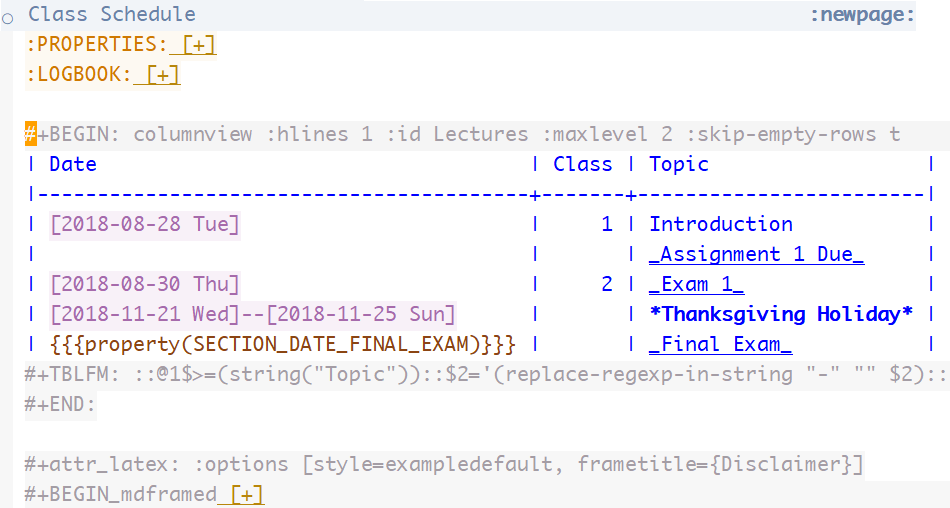
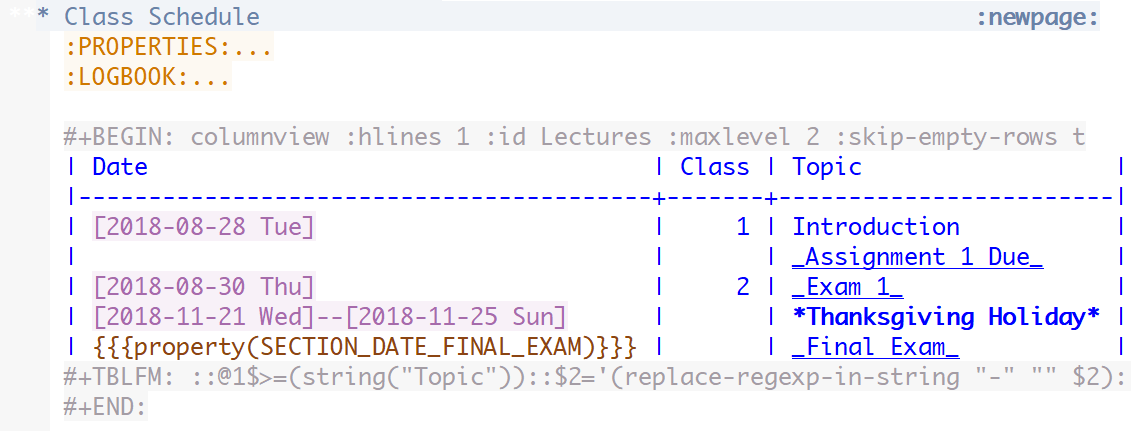
Update

diff --git a/searchindex.js b/searchindex.js
@@ -1,1 +1,1 @@
-Search.setIndex({docnames:["Lectures/01 Introduction","Lectures/02 Org Mode Basics","Lectures/03 Topic and Course Org Files","Lectures/04 Creating Content for Slides and Handouts","Lectures/05 Exporting Slides and Handouts","Lectures/06 Semester Org Files 1 4 Introduction","Lectures/07 Semester Org Files 2 4 Sections and Syllabus","Lectures/08 Semester Org Files 3 4 Lectures","Lectures/09 Semester Org Files 4 4 Exams and Assignments","index"],envversion:53,filenames:["Lectures\\01 Introduction.rst","Lectures\\02 Org Mode Basics.rst","Lectures\\03 Topic and Course Org Files.rst","Lectures\\04 Creating Content for Slides and Handouts.rst","Lectures\\05 Exporting Slides and Handouts.rst","Lectures\\06 Semester Org Files 1 4 Introduction.rst","Lectures\\07 Semester Org Files 2 4 Sections and Syllabus.rst","Lectures\\08 Semester Org Files 3 4 Lectures.rst","Lectures\\09 Semester Org Files 4 4 Exams and Assignments.rst","index.rst"],objects:{},objnames:{},objtypes:{},terms:{"00pm":6,"01_syllabu":6,"10pt":6,"1in":6,"20pt":3,"30a":6,"30pm":5,"43e7":7,"6cm":0,"79d5e887":7,"8e8a":7,"\u315a\u3157":[],"break":3,"case":[0,1,2,3],"class":9,"default":[3,4,6,7,8],"export":[1,3,6,7,8,9],"final":6,"function":[0,1,3,4,6,7,8],"import":[2,5,6,8],"long":[4,7],"new":8,"return":4,"try":0,"while":[0,1,3,4,6],Adding:[],For:[0,1,3,4,5,6,7,8],Its:[2,8],One:[0,1,3,6],Such:[1,3],That:[0,5,6],The:[0,1,2,3,4,5,6,8,9],Then:[0,1,7],There:6,These:[0,3,4,6,7],Using:[4,9],With:[3,4,7],_assign:7,_exam:7,_final:7,abil:7,abl:0,about:[0,2,4,5,6,8],abov:[0,2,7],absolut:5,academ:0,access:0,accommod:5,accomod:4,accompani:3,accordingli:7,achiev:[1,3],across:[0,1,2,5,6,7,8],act:[5,6],action:[0,4,7],activ:[3,8],actual:[0,2],adadem:0,adapt:4,add:[0,3,4,8],added:[0,4],adding:[0,4],addit:[0,4,6,7,8],adjust:0,advantag:1,after:[0,3,4],again:[],agenda:[0,7],ajax:5,alist:4,all:[0,1,3,5,6,7],allow:[0,1,3,4,6,8],allowfullscreen:3,alreadi:3,also:[0,3,5,6,8],alt:[0,8],ani:[0,1,3,4,7,8],annot:0,annouc:7,announc:[0,5,6,7],anoth:[0,2,6,8,9],appear:[0,3],append:4,appli:[0,3],approach:0,appropri:0,area:[1,3],argument:4,around:[0,6],arrow:0,articl:[0,4,6],ask:0,asset:[0,5],assign:[0,1,2,5,6,9],assignment_1:0,associ:1,assum:7,attr_beam:3,attr_format:3,attr_html:[0,3],attr_latex:[0,3],attr_rev:[0,3],attribut:0,author:[2,5],autom:0,automat:[0,3,4,6,7,8],auxiliari:0,avail:[0,3],avoid:[3,6],b83fa83ee56:7,babel:8,back:4,backend:[0,3,4],base:[0,3,4],basi:7,basic:[0,4,7,9],beamer:[0,3,4,7],becaus:[],becom:[],been:0,befor:[0,3,7],begin:[0,3,6],begin_cent:6,begin_export:3,begin_mdfram:3,begin_not:3,begin_src:7,beginn:0,being:[0,3,4,7],belon:8,belong:[0,7],below:[0,2,3,4,5,6,7,8],benefit:[0,2],between:[3,4],biggest:0,bind:[],blank:6,bldg:6,block:[3,6],bodi:[6,7],boilerpl:[],bold:3,booklet:4,both:[0,4,9],bottom:6,broken:[],browser:3,build:1,built:[0,4],button:[],calendar:0,call:0,can:[0,1,2,3,4,5,6,7,8],cannot:3,carrot:8,categor:5,categori:[2,5],cdn:5,cdnj:5,central:[],certain:4,chang:[0,1,4,5,6,8],charact:7,checkmark:8,choos:[0,3,4],classlist:5,classroom:[0,5,6],clearpag:4,click:[0,4,7],clickabl:[0,7,9],cloudflar:5,code:[0,4,8,9],collaps:[0,5],color:6,column:[6,7],columnview:[0,6],com:[3,5],combin:3,come:4,command:[0,4,7],common:[0,3,5,6,8],compil:0,complet:[0,3],compon:[0,5],concat:4,cond:3,conduct:8,confirm:[0,8],consider:2,consist:[0,1,2],construct:[],contain:[0,2,4,5,6,7,8],containt:2,content:[5,6,9],control:3,contruct:5,conveni:[4,8],convert:[3,4],copi:1,correct:[4,8],correctli:[],correspond:[0,2,3,6,7,8],coupl:5,courier:6,cours:[1,3,4,5,7,8,9],course_info:0,course_link:6,course_num:[0,5,6,8],coursepack:[1,2,3,4,5,7,8],coursepacket:2,cover:[0,2,5],creat:[1,2,4,5,6,7,8,9],creation:0,ctrl:0,current:[0,1,4,7],curser:0,cursor:[0,1,4,6],custom:[0,3,4,6,7,8],custom_id:[1,2,6,7,8],cut:4,cutoff:6,dai:6,data:[1,2],date:[0,1,6,8],date_class_01:7,date_class_02:7,date_class_xx:7,date_exam_1:8,date_final_exam_01:6,deadlin:[],deck:0,dedic:5,defin:[0,1,4,6,7],definecolor:6,definit:[1,5],defun:[3,4],denot:1,depend:[0,4],depth:4,deriv:[3,4],describ:[0,3,4,6,7],descript:[0,2,5,6],design:[0,7,8],desir:0,detail:[0,8],determin:1,develop:0,dfrac:1,differ:[0,1,2,6,8],digest:0,direct:3,directli:[0,3],directori:[4,7,9],discuss:7,disk:0,dispatch:4,displai:3,div:3,divid:0,document:[0,1,4,5],documentclass:4,doe:[0,4],done:[],down:[0,8],draw:7,drawer:[0,6],due:[0,1,7],due_:7,due_assignment_1:[1,7],due_assignment_2:7,duplic:8,dure:6,dynam:6,each:[0,1,2,4,5,6,7,8],earlier:[0,7],easi:0,easier:0,easili:[1,3,7],edit:7,effect:0,effici:0,eggplant:8,either:[0,3,4],element:[4,6,8],elisp:[0,8],elmnt:4,emac:[0,3,4,7,8],email:[2,5,6],emb:3,embed:0,empti:8,enabl:[0,3,4],end:[0,1,2,3,4,5,6,7,8],end_cent:6,end_export:3,end_mdfram:3,end_not:3,engag:0,enjoi:0,ensur:[1,4],enter:[0,7],entri:4,escap:4,especi:1,essenti:7,estim:2,etc:[1,5,6],eun:[0,1,2,3,4,5,6,7,8],eval:[3,4],evalu:8,even:0,event:[0,7],everi:4,exam:[0,1,2,4,5,6,7,9],exam_:7,exampl:[1,2,3,4,5,6,7,8],exclude_tag:5,execut:7,exercis:2,exist:7,expand:[0,2],experi:0,explain:0,explan:[],exploit:1,export_:4,export_author:8,export_d:8,export_file_nam:[0,6,7],export_file_name_manu:7,export_latex_head:[4,6,7],export_titl:[4,6,7,8],export_to:[4,6,7],extend:[],extens:[0,4],extra:3,extract:6,fact:2,fall:[2,5,6,7,8],familiar:[0,3],featur:[0,1,4,9],few:0,file:[3,4,9],fill:0,filler:0,filter:[3,4],find:0,finish:[],first:[0,3,4,7,8],fit:[0,6],fix:[],flexibl:[0,1,4],focu:[0,3],focus:4,folder:[0,2],follow:[0,1,3,4,5,7,8],fontenc:6,forc:0,fore:1,form:[1,2,4,6,7],format:[0,3,4,6,7,8],former:4,found:[3,4],frag:[0,3],fragment:0,frame:3,framebreak:3,framemethod:6,frametitl:3,freeli:0,frequent:[0,1,3],from:[0,2,5,6,7,9],front:4,fset:4,full:4,furthermor:8,futur:[0,1],gener:[0,2,3,4,5,6,7,8],geometri:6,get:[0,3,4,6,7],given:[0,2,5,6],global:5,gnu:0,grab:[],grade:[0,2,5,6],grammar:[3,6],granular:3,group:0,guid:9,guidelin:[0,1,2],hack:3,handout:[5,9],handoutonli:[0,4,7],happen:3,has:[0,2,4,5,6,7,8],have:[0,1,2,3,4,6,7,8],head:[2,6,9],header:[3,4,6,7,8],headlin:[0,3,4],heavili:6,height:3,help:0,helvet:6,henc:[0,2,3,4,7,8],here:[2,3,4,8],hidden:[0,4],hide:[0,3,8],hidestar:[2,5],highest:2,highlight:[4,5,7],hit:0,hold:0,holidai:[0,7],hook:4,hour:[0,6],how:[1,3,4,5],howev:[0,4],href:[],html:[0,4,7,9],http:[3,5],iffals:[0,4],ifram:3,ignor:[0,3,6,7],ignoreheadlin:3,imag:[0,3,4],img:3,importantli:4,improv:0,inact:8,includ:[2,3,4,6,7,8,9],inclus:0,inconsist:0,indent:5,index:9,individu:9,info:[3,4],inform:[1,2,3,4,5,7,8],inherit:[6,7,8],init:[3,4],initi:4,inlin:[3,8],insert:[0,7],insid:0,inspect:7,instal:4,instanc:2,instead:[3,5,6,7],institut:[0,5,6],instruct:[0,3,4,5,8],instructor:[1,2,3,4,5,6,7,8],instrutor:7,interact:4,interfac:4,interpret:2,introduc:[0,3,4],introduct:9,invalid:7,irrelev:3,item:[0,3,4,5,6,8],its:[0,1,3,4,6,7],itself:[],jae:[0,1,2,3,4,5,6,7,8],joon:[0,1,2,3,4,5,6,7,8],jose:0,just:[],kbd:4,keep:[],kei:[0,8],keybind:9,keyboard:4,keyword:5,know:0,knowledg:0,koma:[4,6],lambda:4,lang:4,languag:[0,3,4],larg:6,last:[4,7],later:4,latex:[0,6,7,8,9],latter:[4,7],learn:[0,2,6,7],lectur:[1,2,3,4,5,8,9],left:6,let:[0,3,4],letter:4,letterpap:6,level:[0,1,2,9],leverag:0,lib:5,like:[0,1,3],limit:0,line:[0,1,2,4],linear:5,link:[0,2,7,8,9],lisp:[0,3,4,7],list:[0,4,6,7,8],load:[3,4],local:[5,9],localsetup:0,locat:[0,1,2,5,6],logo:6,look:[0,3],macro:[0,3,4,7,8,9],macro_nam:1,macros_section_info:[0,6],made:[0,7],mai:[0,1,3,4,5,6,7,8],mail:6,main:[],mainli:5,maintain:4,major:0,make:[0,1,2,3],manag:0,mani:[0,8],manual:[0,1,3,4,5,7,8],map:4,mark:[0,8],markdown:[0,5],market:[1,2],markeup:3,markup:[0,3,4],master:[0,5],match:[],materi:[0,1,2,5,6,7],math:0,mathjax:0,mathpazo:6,matter:4,mdframe:[3,6],mean:[0,1,6],meet:[6,7],member:4,menu:0,meta:2,metadata:[2,5],method:0,microtyp:6,mid:8,might:[],minim:[0,7,8],mint:[4,7],minut:8,mix:[],mode:[0,3,5,6,7,8,9],modifi:[],modul:9,modular:[1,8],more:[0,1,3,5,7,8],most:[0,2,6,7],move:0,movement:[],much:[7,8],multi:3,multicol:[3,4],multipl:[0,1,2,4,5,6],name:[0,1,2,4,5,6,7],namkoong:[0,1,2,3,4,5,6,7,8],narrow:4,navig:0,necessari:[3,5],need:[0,1,3,7],newpag:[4,6,8],next:4,nil:[0,5,6,8],noexport:[5,6,7],non:[0,7],none:7,nonstopmod:4,note:[0,2,4,5,6,7,8],notic:[],now:[2,6],num:[4,6],number:[0,1,4,5,6,7,8],object:[0,2,6,7],obtain:[3,8],obvious:[],occupi:0,occur:0,occurr:0,offer:[0,4,5],offic:[0,6],office_hour:[5,6],often:0,okra:8,onc:6,one:[0,1,3,4,5,7,8],onehalfspac:6,ones:5,onli:[0,1,2,3,6,7,8],open:[0,4,7,8],oppos:[0,4],option:[0,1,2,3,4,6,7,8,9],order:[0,1,5,7,8],org:3,org_teach:[7,8],organ:[0,5],orgmod:3,origin:[4,8],other:[0,4,5,6,7],otherwis:8,our:[0,4],output:[0,3,4,7],output_view:[6,7],outputdir:4,outsid:0,over:[3,5],overal:7,overlai:[3,7],overridden:7,overview:[2,5,7,9],own:0,packag:[4,7],page:[6,9],pair:1,paragraph:4,parent:4,pars:4,part:[0,3,4],partial:2,particular:[1,7],pass:[0,6,8],past:[0,1],path:[5,7],pdf:[0,4,6,7],pdflatex:4,pepper:8,per:0,percentag:6,perform:7,perman:[0,2],pertain:8,phone:6,place:[0,1,4,6,7],placehold:6,plan:2,plist:4,png:3,point:[3,4,7,8],polici:[0,2,6],popular:0,portabl:0,portion:0,posit:4,possibl:[7,8],post:5,potenti:[0,2],power:4,pre:[0,4,7],preambl:[3,4,6,7],preced:1,prefix:4,prepend:0,prerequisit:6,present:[0,1,3,5,7],press:[0,1,8],prevent:7,preview:0,previou:[0,7],print:3,prior:7,process:[0,3,4],professor:6,progn:4,prop:4,propag:[0,7],proper:4,properli:[0,3,8],properti:[0,2,3,4],property_nam:[1,6],provid:[0,1,3,4,7],pull:[0,1,5,6,8],put:[0,3,4],python:4,qualit:0,queri:0,question:[0,2,8],quickli:7,quickstart:9,quickstart_lectur:[],quot:3,raw:[0,4,9],reader:3,readi:[],readili:3,readm:0,recap:[0,7],receiv:6,recent:0,recommend:0,reduc:0,redun:7,redunc:0,redund:[0,6,8],refer:[0,1,2,4],reflect:[0,7],regexp:3,regress:[1,2],rel:[0,5],relat:[0,1,2,3,5,6],relev:2,reli:6,remain:[0,2],remind:[5,6],remov:4,render:[0,4],repeat:[0,1,4],replac:[0,1,3],represent:4,requir:[3,4,8],res:1,research:[0,1,2],reset:0,resid:[],respect:[2,3,4],restructuredtext:[0,3],result:7,reus:[],reusabl:7,reveal:[0,5,7,9],reveal_histori:5,reveal_html:[0,4],reveal_plugin:5,reveal_root:5,reveal_them:5,reveal_tran:5,review:[0,1,2,7],revisit:1,rgb:6,right:[0,6],riski:0,root:0,rst:[3,4],run:[0,7,8],safe:[0,3],sai:1,same:[0,1,2,3,4,5,6,7,8],save:0,scale:[0,6],schedul:[5,7],scheme:[0,2],school:[5,6],school_color:6,schoolcolor:6,scrartcl:4,screenshot:0,script:[0,4,7],search:[0,9],second:[0,3],section:[0,1,2,3,4,5,9],section_d:6,section_date_final_exam:6,section_loc:6,see:[0,1,2,3,4,5,6,7,8],select:[0,9],semest:[1,2,3,9],semestor:[],separ:[3,8],sequenti:3,seri:0,set:[6,7],setf:4,setq:4,setspac:6,setup:[0,4],setup_macro:[0,5],setupfil:5,sever:[0,5],share:[0,1,6,7,8],shell:4,shift:0,shortcut:0,shoud:4,should:[0,2,3,5,7],show:[0,2,3,4,5,7,8],shown:[0,1,2,3,4,6,7,8],similar:0,similarli:[3,4],simpl:[0,5],simpli:[0,3,4,6],sinc:[0,3,6,8],site:6,size:0,skip:8,skipcount:[0,7],slide:[2,7,9],slideonli:[0,4,7],small:3,smaller:3,snippet:[3,4],some:[3,6],sometim:[],space:4,span:[0,3,4],special:3,specif:[0,1,2,3,5,6,7,8],specifi:[1,4,5,6,7,8],split:0,spring:0,squar:[1,2],src:3,ss_:1,stabil:[],stamp:8,star:1,start:[0,2,3,5,7],startup:[2,5],statement:[1,4,7,8],statist:[0,1,2],step:0,storag:0,store:[0,5],straightforward:0,strateg:0,string:[0,3,4],structur:[2,4,7,8,9],student:[2,6,8],style:3,sub:[0,2],subdirectori:0,subfold:0,subhead:[1,4,7],subparagraph:4,subsect:4,subset:8,subsubsect:4,subtop:2,subtre:[0,1,2,3,5,6,9],suffici:[],summari:[],sun:6,supplementari:[0,4],support:[3,4],suppos:1,surround:[0,3],syllabi:4,syllabu:[1,2,5,7,9],symbol:[4,8],syntax:[0,4,7],system:0,sza2yodtgk4:3,tab:0,tabl:[0,4,6,7],tag:[0,5,6,7,9],take:[1,4],taken:0,task:[0,3,6,9],taught:0,tblfm:6,teach:[0,2,5,6,7],tedious:[],templat:[1,5],tend:[],term:[1,8],tex:0,text:[0,1,3,4,6],thanksgiv:7,thei:[0,1,4,5,6,8],them:[0,1,3,7,8],thi:[0,1,2,3,4,5,6,7,8],thing:[],think:1,third:[0,3,6],those:[3,5],three:[0,1,5,7],through:[0,7],throughout:1,thu:[0,1,3,5,7],thur:6,time:[0,4,5,6,8],timestamp:[5,8],tip:4,titl:[0,1,2,3,4,5,6],toc:[4,6],todo:[5,7],togeth:3,tool:0,top:[0,2,9],topic:[0,6,7,8,9],tot:1,track:[],tree:[0,2,3,9],tue:[0,2,4,5,6,7,8],tutori:3,twice:0,two:[0,3,7,8],type:[0,8],typic:[0,6,8],under:[0,2,7,8],understand:3,uniqu:0,unit:0,univers:0,unless:[0,8],unnecessari:[3,7],updat:[1,6],upon:1,url:[],usag:[1,4],use:[0,1,3,4,5,6,7,8],used:[0,1,3,4,5,6,7,8],useful:[1,4,7],usepackag:[4,6],user:[0,1,3,4,5,7],uses:[0,8],using:[0,1,2,3,4,6,8],util:0,valu:[0,1,4,6,7,8],vari:0,variabl:[5,9],varieti:4,variou:5,veget:8,verb:4,veri:[1,7],version:8,via:[0,1,3,6,8],video:0,view:[0,3,7],view_output:4,viewer:[],visit:[1,5],visual:0,vspace:6,wai:0,want:[0,1,3,4],warn:0,web:[],well:[0,3,5],were:1,what:[0,3],when:[0,1,2,4,6,7],where:[0,1,2,3,4,5],whether:4,which:[0,1,3,4,5,6,7,8],who:[0,2],whole:4,wide:6,widen:4,width:[0,3],window:3,wish:6,within:1,without:[1,3,8],won:4,word:0,worg:3,work:[0,4,8],worri:[],would:[0,1,2],wrapper:6,write:[],written:[0,3,4,7],wuold:8,www:3,xhtml:3,year:0,yet:3,you:[0,1,3,4,7],your:[2,3,4,5],zoom:5},titles:["Class 1: Introduction","Class 2: Org Mode Basics","Class 3: Topic and Course Org Files","Class 4: Creating Content for Slides and Handouts","Class 5: Exporting Slides and Handouts","Class 6: Semester Org Files (1/4): Introduction","Class 7: Semester Org Files (2/4): Sections and Syllabus","Class 8: Semester Org Files (3/4): Lectures","Class 9: Semester Org Files (4/4): Exams and Assignments","Welcome to Org-Coursepack\u2019s documentation!"],titleterms:{"break":4,"class":[0,1,2,3,4,5,6,7,8],"export":[0,4,5],"new":0,"short":8,Adding:0,The:7,Using:3,advantag:0,anoth:1,answer:8,assign:[7,8],attribut:3,basic:1,befor:4,bind:4,block:7,both:3,box:3,buffer:4,button:4,chang:3,choic:8,clickabl:4,code:[3,7],column:3,columnview:7,common:7,conclus:0,construct:0,content:[0,1,2,3,4,7,8],copi:0,cours:[0,2,6],coursepack:[0,9],creat:[0,3],date:7,directori:0,document:9,drawer:5,dummi:3,dynam:7,edit:0,embed:3,exam:8,exampl:0,featur:3,file:[0,1,2,5,6,7,8],font:3,fragment:3,from:1,guid:0,handout:[0,3,4,7],head:[1,3,4,7],hide:4,how:0,html:3,includ:[0,1],indic:9,individu:7,inform:[0,6],input:0,insert:[3,4],instal:0,instructor:0,intro:6,introduct:[0,3,5,7],item:7,kei:4,keybind:4,latex:[3,4],lectur:[0,7],level:[4,5,6,7,8],link:4,list:3,local:[0,8],localsetup:5,macro:[1,5,6],make:[],metadata:0,mode:[1,4],modular:0,multipl:[3,8],note:3,onli:4,option:5,org:[0,1,2,4,5,6,7,8,9],organ:[2,3],overview:0,page:[4,8],paragraph:3,path:0,permiss:0,prepar:0,properti:[1,6,7,8],quickstart:0,raw:3,renam:0,requir:0,reusabl:[],reveal:[3,4],schedul:[0,6],scope:4,section:[6,8],select:4,semest:[0,5,6,7,8],semester_info:5,set:[0,4],setup_export:5,size:3,slide:[0,3,4],sourc:7,speaker:3,specif:4,specifi:[0,3],speific:6,split:3,statement:0,structur:0,student:0,subtre:[4,7,8],summari:7,syllabi:0,syllabu:[0,6],tabl:9,tag:[1,3,4],task:[5,7],templat:0,titl:8,top:[5,6,7,8],topic:2,tree:[5,6,7,8],updat:[0,7],variabl:[0,8],video:3,welcom:9,your:0,youtub:3}})
+Search.setIndex({docnames:["Lectures/01 Introduction","Lectures/02 Org Mode Basics","Lectures/03 Topic and Course Org Files","Lectures/04 Creating Content for Slides and Handouts","Lectures/05 Exporting Slides and Handouts","Lectures/06 Semester Org Files 1 4 Introduction","Lectures/07 Semester Org Files 2 4 Sections and Syllabus","Lectures/08 Semester Org Files 3 4 Lectures","Lectures/09 Semester Org Files 4 4 Exams and Assignments","index"],envversion:53,filenames:["Lectures\\01 Introduction.rst","Lectures\\02 Org Mode Basics.rst","Lectures\\03 Topic and Course Org Files.rst","Lectures\\04 Creating Content for Slides and Handouts.rst","Lectures\\05 Exporting Slides and Handouts.rst","Lectures\\06 Semester Org Files 1 4 Introduction.rst","Lectures\\07 Semester Org Files 2 4 Sections and Syllabus.rst","Lectures\\08 Semester Org Files 3 4 Lectures.rst","Lectures\\09 Semester Org Files 4 4 Exams and Assignments.rst","index.rst"],objects:{},objnames:{},objtypes:{},terms:{"00pm":6,"01_syllabu":6,"10pt":6,"1in":6,"20pt":3,"30a":6,"30pm":5,"43e7":7,"6cm":0,"79d5e887":7,"8e8a":7,"\u315a\u3157":[],"break":3,"case":[0,1,2,3],"class":9,"default":[3,4,6,7,8],"export":[1,3,6,7,8,9],"final":6,"function":[0,1,3,4,6,7,8],"import":[2,5,6,8],"long":[4,7],"new":8,"return":4,"try":0,"while":[0,1,3,4,6],Adding:[],For:[0,1,3,4,5,6,7,8],Its:[2,8],One:[0,1,3,6],Such:[1,3],That:[0,5,6],The:[0,1,2,3,4,5,6,8,9],Then:[0,1,7],There:6,These:[0,3,4,6,7],Using:[4,9],With:[3,4,7],_assign:7,_exam:7,_final:7,abil:7,abl:0,about:[0,2,4,5,6,8],abov:[0,2,7],absolut:5,academ:0,access:0,accommod:5,accomod:4,accompani:3,accordingli:7,achiev:[1,3],across:[0,1,2,5,6,7,8],act:[5,6],action:[0,4,7],activ:[3,8],actual:[0,2],adadem:0,adapt:4,add:[0,3,4,8],added:[0,4],adding:[0,4],addit:[0,4,6,7,8],adjust:0,advantag:1,after:[0,3,4],again:[],agenda:[0,7],ajax:5,alist:4,all:[0,1,3,5,6,7],allow:[0,1,3,4,6,8],allowfullscreen:3,alreadi:3,also:[0,3,5,6,8],alt:[0,8],ani:[0,1,3,4,7,8],annot:0,annouc:7,announc:[0,5,6,7],anoth:[0,2,6,8,9],appear:[0,3],append:4,appli:[0,3],approach:0,appropri:0,area:[1,3],argument:4,around:[0,6],arrow:0,articl:[0,4,6],ask:0,asset:[0,5],assign:[0,1,2,5,6,9],assignment_1:0,associ:1,assum:7,attr_beam:3,attr_format:3,attr_html:[0,3],attr_latex:[0,3],attr_rev:[0,3],attribut:0,author:[2,5],autom:0,automat:[0,3,4,6,7,8],auxiliari:0,avail:[0,3],avoid:[3,6],b83fa83ee56:7,babel:8,back:4,backend:[0,3,4],base:[0,3,4],basi:7,basic:[0,4,7,9],beamer:[0,3,4,7],becaus:[],becom:[],been:0,befor:[0,3,7],begin:[0,3,6],begin_cent:6,begin_export:3,begin_mdfram:3,begin_not:3,begin_src:7,beginn:0,being:[0,3,4,7],belon:8,belong:[0,7],below:[0,2,3,4,5,6,7,8],benefit:[0,2],between:[3,4],biggest:0,bind:[],blank:6,bldg:6,block:[3,6],bodi:[6,7],boilerpl:[],bold:3,booklet:4,both:[0,4,9],bottom:6,broken:[],browser:3,build:1,built:[0,4],button:[],calendar:0,call:0,can:[0,1,2,3,4,5,6,7,8],cannot:3,carrot:8,categor:5,categori:[2,5],cdn:5,cdnj:5,central:[],certain:4,chang:[0,1,4,5,6,8],charact:7,checkmark:8,choos:[0,3,4],classlist:5,classroom:[0,5,6],clearpag:4,click:[0,4,7],clickabl:[0,7,9],cloudflar:5,code:[0,4,8,9],collaps:[0,5],color:6,column:[6,7],columnview:[0,6],com:[3,5],combin:3,come:4,command:[0,4,7],common:[0,3,5,6,8],compil:0,complet:[0,3],compon:[0,5],concat:4,cond:3,conduct:8,confirm:[0,8],consider:2,consist:[0,1,2],construct:0,contain:[0,2,4,5,6,7,8],containt:2,content:[5,6,9],control:3,contruct:5,conveni:[4,8],convert:[3,4],copi:1,correct:[4,8],correctli:[],correspond:[0,2,3,6,7,8],coupl:5,courier:6,cours:[1,3,4,5,7,8,9],course_info:0,course_link:6,course_num:[0,5,6,8],coursepack:[1,2,3,4,5,7,8],coursepacket:2,cover:[0,2,5],creat:[1,2,4,5,6,7,8,9],creation:0,ctrl:0,current:[0,1,4,7],curser:0,cursor:[0,1,4,6],custom:[3,4,6,7,8],custom_id:[1,2,6,7,8],cut:4,cutoff:6,dai:6,data:[1,2],date:[0,1,6,8],date_class_01:7,date_class_02:7,date_class_xx:7,date_exam_1:8,date_final_exam_01:6,deadlin:[],deck:0,dedic:5,defin:[0,1,4,6,7],definecolor:6,definit:[1,5],defun:[3,4],denot:1,depend:[0,4],depth:4,deriv:[3,4],describ:[0,3,4,6,7],descript:[0,2,5,6],design:[0,7,8],desir:0,detail:[0,8],determin:1,develop:0,dfrac:1,differ:[0,1,2,6,8],digest:0,direct:3,directli:[0,3],directori:[4,7,9],discuss:7,disk:0,dispatch:4,displai:3,div:3,divid:0,document:[0,1,4,5],documentclass:4,doe:[0,4],done:[],down:[0,8],draw:7,drawer:[0,6],due:[0,1,7],due_:7,due_assignment_1:[1,7],due_assignment_2:7,duplic:8,dure:6,dynam:6,each:[0,1,2,4,5,6,7,8],earlier:[0,7],easi:0,easier:0,easili:[1,3,7],edit:7,effect:0,effici:0,eggplant:8,either:[0,3,4],element:[4,6,8],elisp:[0,8],elmnt:4,emac:[0,3,4,7,8],email:[2,5,6],emb:3,embed:0,empti:8,enabl:[0,3,4],end:[0,1,2,3,4,5,6,7,8],end_cent:6,end_export:3,end_mdfram:3,end_not:3,engag:0,enjoi:0,ensur:[1,4],enter:[0,7],entri:4,escap:4,especi:1,essenti:7,estim:2,etc:[1,5,6],eun:[0,1,2,3,4,5,6,7,8],eval:[3,4],evalu:8,even:0,event:[0,7],everi:4,exam:[0,1,2,4,5,6,7,9],exam_:7,exampl:[1,2,3,4,5,6,7,8],exclude_tag:5,execut:7,exercis:2,exist:7,expand:[0,2],experi:0,explain:0,explan:[],exploit:1,export_:4,export_author:8,export_d:8,export_file_nam:[0,6,7],export_file_name_manu:7,export_latex_head:[4,6,7],export_titl:[4,6,7,8],export_to:[4,6,7],extend:[],extens:[0,4],extra:3,extract:6,fact:2,fall:[2,5,6,7,8],familiar:[0,3],featur:[0,1,4,9],few:0,file:[3,4,9],fill:0,filler:0,filter:[3,4],find:0,finish:[],first:[0,3,4,7,8],fit:[0,6],fix:[],flexibl:[0,1,4],focu:[0,3],focus:4,folder:[0,2],follow:[0,1,3,4,5,7,8],fontenc:6,forc:0,fore:1,form:[1,2,4,6,7],format:[0,3,4,6,7,8],former:4,found:[3,4],frag:[0,3],fragment:0,frame:3,framebreak:3,framemethod:6,frametitl:3,freeli:0,frequent:[0,1,3],from:[0,2,5,6,7,9],front:4,fset:4,full:4,furthermor:8,futur:[0,1],gener:[0,2,3,4,5,6,7,8],geometri:6,get:[0,3,4,6,7],given:[0,2,5,6],global:5,gnu:0,grab:[],grade:[0,2,5,6],grammar:[3,6],granular:3,group:0,guid:9,guidelin:[0,1,2],hack:3,handout:[5,9],handoutonli:[0,4,7],happen:3,has:[0,2,4,5,6,7,8],have:[0,1,2,3,4,6,7,8],head:[2,6,9],header:[3,4,6,7,8],headlin:[0,3,4],heavili:6,height:3,help:0,helvet:6,henc:[0,2,3,4,7,8],here:[0,2,3,4,8],hidden:[0,4],hide:[0,3,8],hidestar:[2,5],highest:2,highlight:[4,5,7],hit:0,hold:0,holidai:[0,7],hook:4,hour:[0,6],how:[0,1,3,4,5],howev:[0,4],href:[],html:[0,4,7,9],http:[3,5],iffals:[0,4],ifram:3,ignor:[0,3,6,7],ignoreheadlin:3,imag:[0,3,4],img:3,importantli:4,improv:0,inact:8,includ:[2,3,4,6,7,8,9],inclus:0,inconsist:0,indent:5,index:9,individu:9,info:[3,4],inform:[1,2,3,4,5,7,8],inherit:[6,7,8],init:[3,4],initi:4,inlin:[3,8],insert:[0,7],insid:0,inspect:7,instal:4,instanc:2,instead:[3,5,6,7],institut:[0,5,6],instruct:[0,3,4,5,8],instructor:[1,2,3,4,5,6,7,8],instrutor:7,interact:4,interfac:4,interpret:2,introduc:[0,3,4],introduct:9,invalid:7,irrelev:3,item:[0,3,4,5,6,8],its:[0,1,3,4,6,7],itself:[],jae:[0,1,2,3,4,5,6,7,8],joon:[0,1,2,3,4,5,6,7,8],jose:0,just:[],kbd:4,keep:[],kei:[0,8],keybind:9,keyboard:4,keyword:5,know:0,knowledg:0,koma:[4,6],lambda:4,lang:4,languag:[0,3,4],larg:6,last:[4,7],later:4,latex:[0,6,7,8,9],latter:[4,7],learn:[0,2,6,7],lectur:[1,2,3,4,5,8,9],left:6,let:[0,3,4],letter:4,letterpap:6,level:[0,1,2,9],leverag:0,lib:5,like:[0,1,3],limit:0,line:[0,1,2,4],linear:5,link:[0,2,7,8,9],lisp:[0,3,4,7],list:[0,4,6,7,8],load:[3,4],local:[5,9],localsetup:0,locat:[0,1,2,5,6],logo:6,look:[0,3],macro:[0,3,4,7,8,9],macro_nam:1,macros_section_info:[0,6],made:[0,7],mai:[0,1,3,4,5,6,7,8],mail:6,main:[],mainli:5,maintain:4,major:0,make:[0,1,2,3],manag:0,mani:[0,8],manual:[0,1,3,4,5,7,8],map:4,mark:[0,8],markdown:[0,5],market:[1,2],markeup:3,markup:[0,3,4],master:[0,5],match:[],materi:[0,1,2,5,6,7],math:0,mathjax:0,mathpazo:6,matter:4,mdframe:[3,6],mean:[0,1,6],meet:[6,7],member:4,menu:0,meta:2,metadata:[2,5],method:0,microtyp:6,mid:8,might:[],minim:[0,7,8],mint:[4,7],minut:8,mix:[],mode:[0,3,5,6,7,8,9],modifi:[],modul:9,modular:[1,8],more:[0,1,3,5,7,8],most:[0,2,6,7],move:0,movement:[],much:[7,8],multi:3,multicol:[3,4],multipl:[0,1,2,4,5,6],name:[0,1,2,4,5,6,7],namkoong:[0,1,2,3,4,5,6,7,8],narrow:4,navig:0,necessari:[3,5],need:[0,1,3,7],newpag:[4,6,8],next:4,nil:[0,5,6,8],noexport:[5,6,7],non:[0,7],none:7,nonstopmod:4,note:[0,2,4,5,6,7,8],notic:[],now:[2,6],num:[4,6],number:[0,1,4,5,6,7,8],object:[0,2,6,7],obtain:[3,8],obvious:[],occupi:0,occur:0,occurr:0,offer:[0,4,5],offic:[0,6],office_hour:[5,6],often:0,okra:8,onc:6,one:[0,1,3,4,5,7,8],onehalfspac:6,ones:5,onli:[0,1,2,3,6,7,8],open:[0,4,7,8],oppos:[0,4],option:[0,1,2,3,4,6,7,8,9],order:[0,1,5,7,8],org:3,org_teach:[7,8],organ:[0,5],orgmod:3,origin:[4,8],other:[0,4,5,6,7],otherwis:8,our:[0,4],output:[0,3,4,7],output_view:[6,7],outputdir:4,outsid:0,over:[3,5],overal:7,overlai:[3,7],overridden:7,overview:[2,5,7,9],own:0,packag:[4,7],page:[6,9],pair:1,paragraph:4,parent:4,pars:4,part:[0,3,4],partial:2,particular:[1,7],pass:[0,6,8],past:[0,1],path:[5,7],pdf:[0,4,6,7],pdflatex:4,pepper:8,per:0,percentag:6,perform:7,perman:[0,2],pertain:8,phone:6,place:[0,1,4,6,7],placehold:6,plan:2,plist:4,png:3,point:[3,4,7,8],polici:[0,2,6],popular:0,portabl:0,portion:0,posit:4,possibl:[7,8],post:5,potenti:[0,2],power:4,pre:[0,4,7],preambl:[3,4,6,7],preced:1,prefix:4,prepend:0,prerequisit:6,present:[0,1,3,5,7],press:[0,1,8],prevent:7,preview:0,previou:[0,7],print:3,prior:7,process:[0,3,4],professor:6,progn:4,prop:4,propag:[0,7],proper:4,properli:[0,3,8],properti:[0,2,3,4],property_nam:[1,6],provid:[0,1,3,4,7],pull:[0,1,5,6,8],put:[0,3,4],python:4,qualit:0,queri:0,question:[0,2,8],quickli:7,quickstart:9,quickstart_lectur:[],quot:3,raw:[0,4,9],reader:3,readi:[],readili:3,readm:0,recap:[0,7],receiv:6,recent:0,recommend:0,reduc:0,redun:7,redunc:0,redund:[0,6,8],refer:[0,1,2,4],reflect:[0,7],regexp:3,regress:[1,2],rel:[0,5],relat:[0,1,2,3,5,6],relev:2,reli:6,remain:[0,2],remind:[5,6],remov:4,render:[0,4],repeat:[0,1,4],replac:[0,1,3],represent:4,requir:[3,4,8],res:1,research:[0,1,2],reset:0,resid:[],respect:[2,3,4],restructuredtext:[0,3],result:7,reus:[],reusabl:7,reveal:[0,5,7,9],reveal_histori:5,reveal_html:[0,4],reveal_plugin:5,reveal_root:5,reveal_them:5,reveal_tran:5,review:[0,1,2,7],revisit:1,rgb:6,right:[0,6],riski:0,root:0,rst:[3,4],run:[0,7,8],safe:[0,3],sai:1,same:[0,1,2,3,4,5,6,7,8],save:0,scale:[0,6],schedul:[5,7],scheme:[0,2],school:[5,6],school_color:6,schoolcolor:6,scrartcl:4,screenshot:0,script:[0,4,7],search:[0,9],second:[0,3],section:[0,1,2,3,4,5,9],section_d:6,section_date_final_exam:6,section_loc:6,see:[0,1,2,3,4,5,6,7,8],select:[0,9],semest:[1,2,3,9],semestor:[],separ:[3,8],sequenti:3,seri:0,set:[6,7],setf:4,setq:4,setspac:6,setup:[0,4],setup_macro:[0,5],setupfil:5,sever:[0,5],share:[0,1,6,7,8],shell:4,shift:0,shortcut:0,shoud:4,should:[0,2,3,5,7],show:[0,2,3,4,5,7,8],shown:[0,1,2,3,4,6,7,8],similar:0,similarli:[3,4],simpl:[0,5],simpli:[0,3,4,6],sinc:[0,3,6,8],site:6,size:0,skip:8,skipcount:[0,7],slide:[2,7,9],slideonli:[0,4,7],small:3,smaller:3,snippet:[3,4],some:[3,6],sometim:[],space:4,span:[0,3,4],special:3,specif:[0,1,2,3,5,6,7,8],specifi:[1,4,5,6,7,8],split:0,spring:0,squar:[1,2],src:3,ss_:1,stabil:[],stamp:8,star:1,start:[0,2,3,5,7],startup:[2,5],statement:[1,4,7,8],statist:[0,1,2],step:0,storag:0,store:[0,5],straightforward:0,strateg:0,string:[0,3,4],structur:[2,4,7,8,9],student:[2,6,8],style:3,sub:[0,2],subdirectori:0,subfold:0,subhead:[1,4,7],subparagraph:4,subsect:4,subset:8,subsubsect:4,subtop:2,subtre:[0,1,2,3,5,6,9],suffici:[],summari:[],sun:6,supplementari:[0,4],support:[3,4],suppos:1,sure:0,surround:[0,3],syllabi:[0,4],syllabu:[1,2,5,7,9],symbol:[4,8],syntax:[0,4,7],system:0,sza2yodtgk4:3,tab:0,tabl:[0,4,6,7],tag:[0,5,6,7,9],take:[1,4],taken:0,task:[0,3,6,9],taught:0,tblfm:6,teach:[0,2,5,6,7],tedious:[],templat:[1,5],tend:[],term:[1,8],tex:0,text:[0,1,3,4,6],thanksgiv:7,thei:[0,1,4,5,6,8],them:[0,1,3,7,8],thi:[0,1,2,3,4,5,6,7,8],thing:[],think:1,third:[0,3,6],those:[3,5],three:[0,1,5,7],through:[0,7],throughout:1,thu:[0,1,3,5,7],thur:6,time:[0,4,5,6,8],timestamp:[5,8],tip:4,titl:[0,1,2,3,4,5,6],toc:[4,6],todo:[5,7],togeth:3,tool:0,top:[0,2,9],topic:[0,6,7,8,9],tot:1,track:[],tree:[0,2,3,9],tue:[0,2,4,5,6,7,8],tutori:3,twice:0,two:[0,3,7,8],type:[0,8],typic:[0,6,8],under:[0,2,7,8],understand:3,uniqu:0,unit:0,univers:0,unless:[0,8],unnecessari:[3,7],updat:[1,6],upon:1,url:[],usag:[1,4],use:[0,1,3,4,5,6,7,8],used:[0,1,3,4,5,6,7,8],useful:[1,4,7],usepackag:[4,6],user:[0,1,3,4,5,7],uses:[0,8],using:[0,1,2,3,4,6,8],util:0,valu:[0,1,4,6,7,8],vari:0,variabl:[5,9],varieti:4,variou:5,veget:8,verb:4,veri:[1,7],version:8,via:[0,1,3,6,8],video:0,view:[0,3,7],view_output:4,viewer:[],visit:[1,5],visual:0,vspace:6,wai:0,want:[0,1,3,4],warn:0,web:[],well:[0,3,5],were:1,what:[0,3],when:[0,1,2,4,6,7],where:[0,1,2,3,4,5],whether:4,which:[0,1,3,4,5,6,7,8],who:[0,2],whole:4,wide:6,widen:4,width:[0,3],window:3,wish:6,within:1,without:[1,3,8],won:4,word:0,worg:3,work:[0,4,8],worri:[],would:[0,1,2],wrapper:6,write:[],written:[0,3,4,7],wuold:8,www:3,xhtml:3,year:0,yet:3,you:[0,1,3,4,7],your:[2,3,4,5],zoom:5},titles:["Class 1: Introduction","Class 2: Org Mode Basics","Class 3: Topic and Course Org Files","Class 4: Creating Content for Slides and Handouts","Class 5: Exporting Slides and Handouts","Class 6: Semester Org Files (1/4): Introduction","Class 7: Semester Org Files (2/4): Sections and Syllabus","Class 8: Semester Org Files (3/4): Lectures","Class 9: Semester Org Files (4/4): Exams and Assignments","Welcome to Org-Coursepack\u2019s documentation!"],titleterms:{"break":4,"class":[0,1,2,3,4,5,6,7,8],"export":[0,4,5],"new":0,"short":8,Adding:0,The:7,Using:3,advantag:0,anoth:1,answer:8,assign:[7,8],attribut:3,basic:1,befor:4,bind:4,block:7,both:3,box:3,buffer:4,button:4,chang:3,choic:8,clickabl:4,code:[3,7],column:3,columnview:7,common:7,conclus:0,construct:[],content:[0,1,2,3,4,7,8],copi:0,cours:[0,2,6],coursepack:[0,9],creat:[0,3],date:7,directori:0,document:9,drawer:5,dummi:3,dynam:7,edit:0,embed:3,exam:8,exampl:0,featur:3,file:[0,1,2,5,6,7,8],font:3,fragment:3,from:1,guid:0,handout:[0,3,4,7],head:[1,3,4,7],hide:4,how:[],html:3,includ:[0,1],indic:9,individu:7,inform:[0,6],input:0,insert:[3,4],instal:0,instructor:0,intro:6,introduct:[0,3,5,7],item:7,kei:4,keybind:4,latex:[3,4],lectur:[0,7],level:[4,5,6,7,8],link:4,list:3,local:[0,8],localsetup:5,macro:[1,5,6],make:[],metadata:0,mode:[1,4],modular:0,multipl:[3,8],note:3,onli:4,option:5,org:[0,1,2,4,5,6,7,8,9],organ:[2,3],overview:0,page:[4,8],paragraph:3,path:0,permiss:0,prepar:0,properti:[1,6,7,8],quickstart:0,raw:3,renam:0,requir:0,reusabl:[],reveal:[3,4],schedul:[0,6],scope:4,section:[6,8],select:4,semest:[0,5,6,7,8],semester_info:5,set:[0,4],setup_export:5,size:3,slide:[0,3,4],sourc:7,speaker:3,specif:4,specifi:[0,3],speific:6,split:3,statement:0,structur:0,student:0,subtre:[4,7,8],summari:7,syllabi:[],syllabu:[0,6],tabl:9,tag:[1,3,4],task:[5,7],templat:0,titl:8,top:[5,6,7,8],topic:2,tree:[5,6,7,8],updat:[0,7],variabl:[0,8],video:3,welcom:9,your:0,youtub:3}})

diff --git a/Lectures/01 Introduction.html b/Lectures/01 Introduction.html
@@ -218,15 +218,31 @@ image below.</p>
 </div>
 <div class="section" id="preparing-your-syllabus">
 <h3>2.6 Preparing your syllabus<a class="headerlink" href="#preparing-your-syllabus" title="Permalink to this headline">¶</a></h3>
-<div class="section" id="how-syllabi-are-constructed">
-<h4>2.6.1 How syllabi are constructed<a class="headerlink" href="#how-syllabi-are-constructed" title="Permalink to this headline">¶</a></h4>
 <p>To reduce reduncancy, the top level <code class="docutils literal"><span class="pre">*</span> <span class="pre">Syllabus</span></code> tree simply pulls information
 from the course Org file (for course-related information common across
 sections and semesters; e.g., course description), the semester Org file (for
 semester-specific information; e.g., academic year or office hours), and
 section-level macros (which contain section-specific information; e.g., class
-time and location). You can change these content to fit your own course (See <a class="reference external" href="https://joonro.github.io/Org-Coursepack/Lectures/07%20Semester%20Org%20Files%202%204%20Sections%20and%20Syllabus.html#syllabus-top-level-tree">2
-Syllabus Top-level Tree</a> of the documentation).</p>
+time and location).</p>
+<p><a class="reference external" href="https://joonro.github.io/Org-Coursepack/Lectures/07%20Semester%20Org%20Files%202%204%20Sections%20and%20Syllabus.html#syllabus-top-level-tree">2 Syllabus Top-level Tree</a> of the documentation contains detailed information about
+how to change syllabus content to fit your own course.</p>
+<p>Here, we show how to use a simple command to automatically generate/update a
+class schedule from the list of classes and their metadata in the <code class="docutils literal"><span class="pre">*</span> <span class="pre">Lectures*</span></code> top-level tree in the semester Org file, and how to export your
+syllabi.</p>
+<div class="section" id="class-schedule">
+<h4>2.6.1 Class schedule<a class="headerlink" href="#class-schedule" title="Permalink to this headline">¶</a></h4>
+<p>You can include in your syllabus a class schedule, which is a table that shows
+a list of class dates, class numbers, and class titles, as well as exam dates
+and assignment due dates. Navigate to the
+<code class="docutils literal"><span class="pre">*</span> <span class="pre">Syllabus/Class</span> <span class="pre">Schedule</span></code> subtree and place your cursor on the line that
+starts with <code class="docutils literal"><span class="pre">#+BEGIN:</span> <span class="pre">columnview</span></code>. You can view the class schedule by
+expanding the <code class="docutils literal"><span class="pre">columnview</span></code> (see example class schedule below).</p>
+<img alt="../Assets/Images/Org-Teaching/Quickstart_Syllabus-Schedule-Old.png" src="../Assets/Images/Org-Teaching/Quickstart_Syllabus-Schedule-Old.png" />
+<p>Then, with the curser in place, press <code class="docutils literal"><span class="pre">C-c</span> <span class="pre">C-c</span></code> (hit <code class="docutils literal"><span class="pre">c</span></code> twice while holding
+down the <code class="docutils literal"><span class="pre">CTRL</span></code> key) to generate/update the class schedule with the most
+recent information. Any changes made to the order or names of classes will
+automatically be reflected when the instructor updates the class schedule with
+the <code class="docutils literal"><span class="pre">C-c</span> <span class="pre">C-c</span></code> command.</p>
 </div>
 <div class="section" id="exporting-a-syllabus">
 <h4>2.6.2 Exporting a syllabus<a class="headerlink" href="#exporting-a-syllabus" title="Permalink to this headline">¶</a></h4>
@@ -237,20 +253,15 @@ information through macros, which are defined in <code class="docutils literal">
 below).</p>
 <img alt="../Assets/Images/Org-Teaching/Quickstart_Section-Information-Properties.png" src="../Assets/Images/Org-Teaching/Quickstart_Section-Information-Properties.png" />
 <p>To export the syllabus in our example, navigate to the <code class="docutils literal"><span class="pre">*</span> <span class="pre">Sections/01/Syllabus</span></code> subtree, then expand the <code class="docutils literal"><span class="pre">:PROPERTIES:</span></code> drawer. When the
-drawer is expanded, you will see a clickable link named <code class="docutils literal"><span class="pre">LaTeX</span> <span class="pre">(Custom</span> <span class="pre">Time</span> <span class="pre">Format)</span></code> (see image below). First, save your file so all your changes are
-written to the disk. Then, clicking this link will export the syllabus for
-Section 1 to a PDF file using LaTeX. You can find the exported file in the
-<code class="docutils literal"><span class="pre">Syllabus</span></code> sub-directory. You can also click the <code class="docutils literal"><span class="pre">PDF</span></code> link in the same
-<code class="docutils literal"><span class="pre">:PROPERTIES:</span></code> drawer (see image below) to open the exported file.</p>
+drawer is expanded, you will see a clickable link named <code class="docutils literal"><span class="pre">LaTeX</span></code> (see image
+below). First, make sure to save your file so all your changes are written to
+the disk. Then, clicking this link will export the syllabus for Section 1 to a
+PDF file using LaTeX. You can find the exported file in the <code class="docutils literal"><span class="pre">Syllabus</span></code>
+sub-directory. You can also click the <code class="docutils literal"><span class="pre">PDF</span></code> link in the same <code class="docutils literal"><span class="pre">:PROPERTIES:</span></code>
+drawer (see image below) to open the exported file.</p>
 <img alt="../Assets/Images/Org-Teaching/Quickstart_Syllabus-Export-Link.png" src="../Assets/Images/Org-Teaching/Quickstart_Syllabus-Export-Link.png" />
-<p>See example syllabus below.</p>
+<p>See the screenshot of the exported syllabus below.</p>
 <img alt="../Assets/Images/Org-Teaching/Quickstart_Exported-Syllabus-Course-Info.png" src="../Assets/Images/Org-Teaching/Quickstart_Exported-Syllabus-Course-Info.png" />
-</div>
-<div class="section" id="class-schedule">
-<h4>2.6.3 Class schedule<a class="headerlink" href="#class-schedule" title="Permalink to this headline">¶</a></h4>
-<p>You can include in your syllabus a class schedule, which is a table that shows a list of class dates, class numbers, and class titles, as well as exam dates and assignment due dates. You can use a simple command to automatically generate/update a class schedule from the list of classes and their metadata in the semester Org file. Navigate to the <code class="docutils literal"><span class="pre">*</span> <span class="pre">Syllabus/Class</span> <span class="pre">Schedule</span></code> subtree and place your cursor on the line that starts with <code class="docutils literal"><span class="pre">#+BEGIN:</span> <span class="pre">columnview</span></code>. Then, with the curser in place, press <code class="docutils literal"><span class="pre">C-c</span> <span class="pre">C-c</span></code> (hit <code class="docutils literal"><span class="pre">c</span></code> twice while holding down the <code class="docutils literal"><span class="pre">CTRL</span></code> key) to generate/update the class schedule with the most recent information. Any changes made to the order or names of classes will automatically be reflected when the instructor updates the class schedule with the <code class="docutils literal"><span class="pre">C-c</span> <span class="pre">C-c</span></code> command.</p>
-<p>You can view the class schedule by expanding the <code class="docutils literal"><span class="pre">columnview</span></code> (see example class schedule below).</p>
-<img alt="../Assets/Images/Org-Teaching/Quickstart_Syllabus-Schedule-Old.png" src="../Assets/Images/Org-Teaching/Quickstart_Syllabus-Schedule-Old.png" />
 </div>
 </div>
 <div class="section" id="preparing-your-lectures">
@@ -480,9 +491,8 @@ are stored and accessed.</dd>
 <li><a class="reference internal" href="#rename-paths-to-semester-and-course-org-files-specified-in-include-statements">2.4 Rename paths to semester and course Org files specified in <code class="docutils literal"><span class="pre">#+INCLUDE</span></code> statements</a></li>
 <li><a class="reference internal" href="#inputting-course-information">2.5 Inputting course information</a></li>
 <li><a class="reference internal" href="#preparing-your-syllabus">2.6 Preparing your syllabus</a><ul>
-<li><a class="reference internal" href="#how-syllabi-are-constructed">2.6.1 How syllabi are constructed</a></li>
+<li><a class="reference internal" href="#class-schedule">2.6.1 Class schedule</a></li>
 <li><a class="reference internal" href="#exporting-a-syllabus">2.6.2 Exporting a syllabus</a></li>
-<li><a class="reference internal" href="#class-schedule">2.6.3 Class schedule</a></li>
 </ul>
 </li>
 <li><a class="reference internal" href="#preparing-your-lectures">2.7 Preparing your lectures</a><ul>
